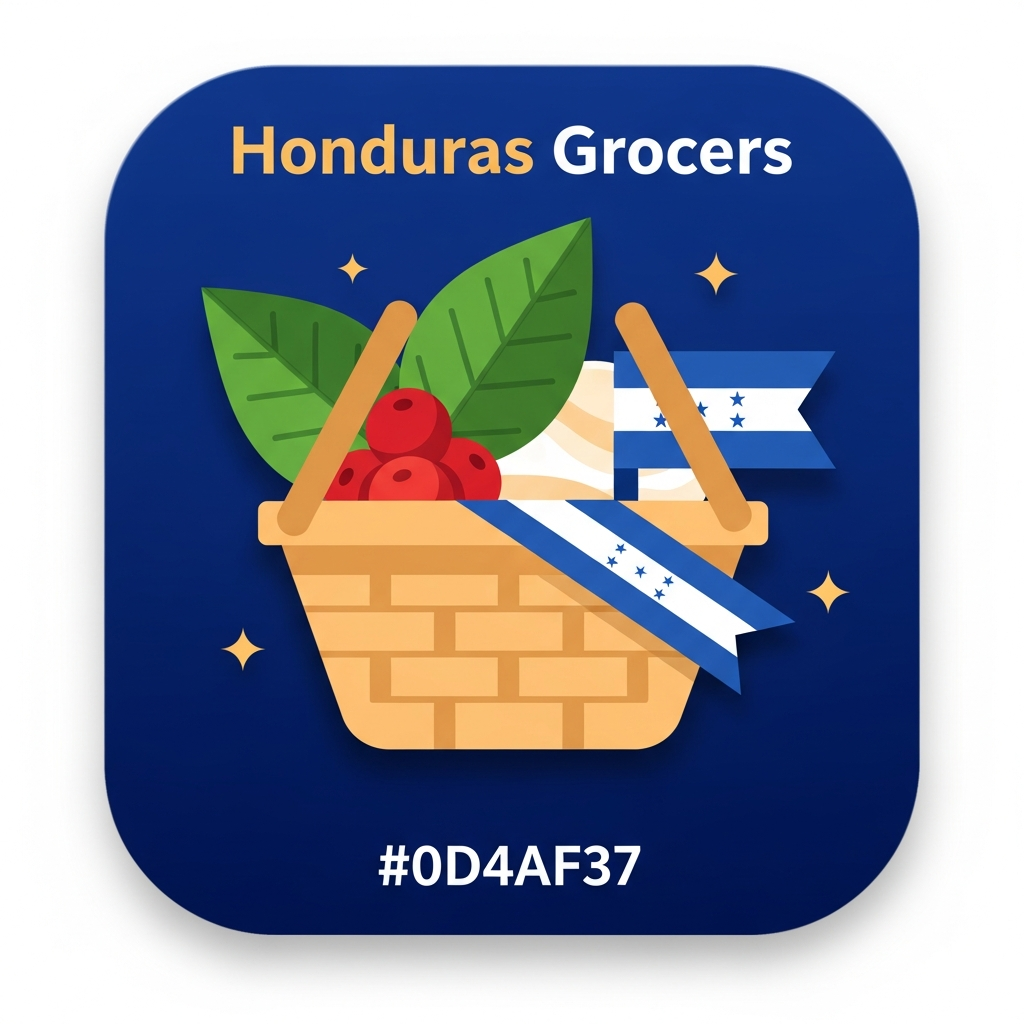
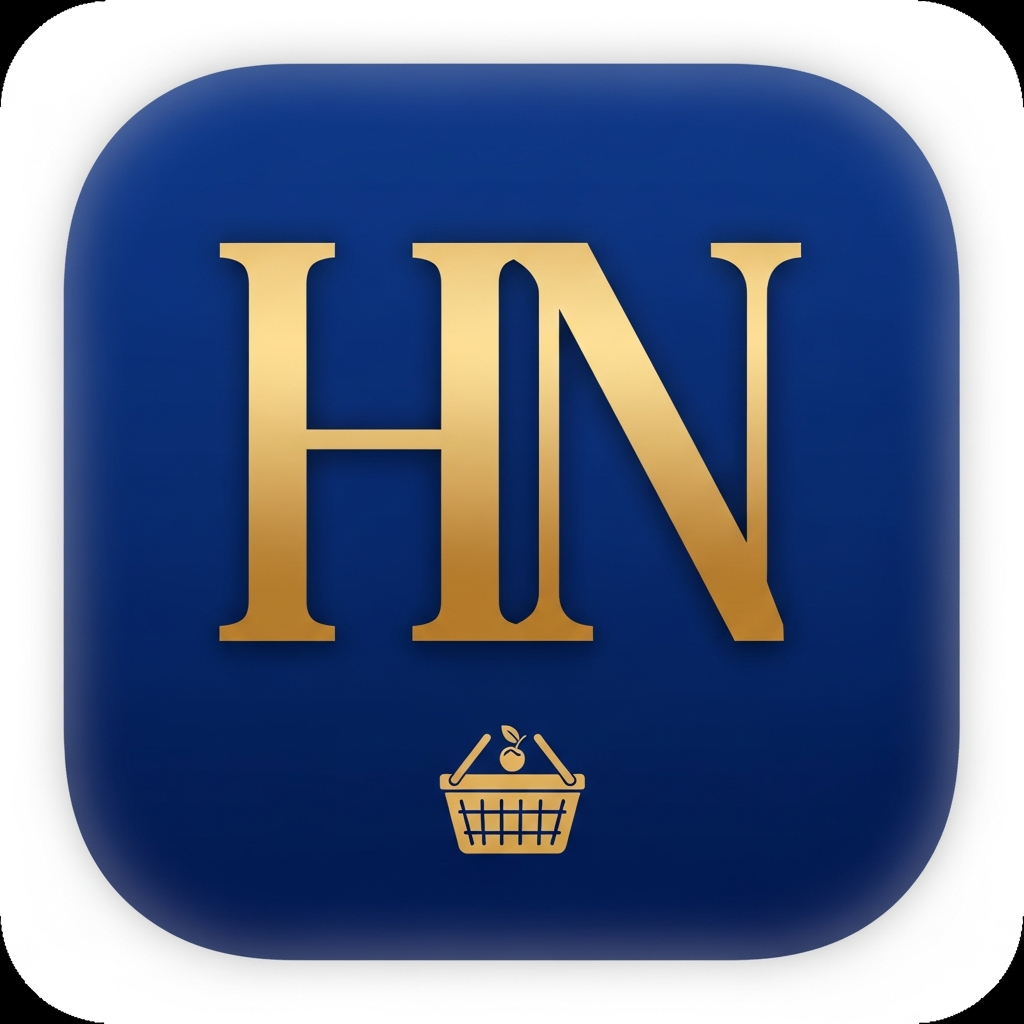
Update branding to "HN Grocers" across the application
Updates the app name, bundle ID, support email, and relevant text in submission copy, privacy policy, and terms of service files to reflect the new "HN Grocers" branding. Also updates generated app icon and feature graphic metadata.

Replit-Commit-Author: Agent
Replit-Commit-Session-Id: b840a65b-4fd7-4e4e-80c6-2eb354647a5a
Replit-Commit-Checkpoint-Type: full_checkpoint
Replit-Commit-Event-Id: f8f539ea-560c-4b84-bac8-9fdf16ebab94
Replit-Commit-Screenshot-Url: https://storage.googleapis.com/screenshot-production-us-central1/4912a823-a7d9-46cd-a7ab-22894e914adc/b840a65b-4fd7-4e4e-80c6-2eb354647a5a/bvsFy5p
Replit-Helium-Checkpoint-Created: true

diff --git a/artifacts/honduran-store/src/pages/terms.tsx b/artifacts/honduran-store/src/pages/terms.tsx
@@ -18,7 +18,7 @@ export default function Terms() {
             <section>
               <h2 className="text-xl font-bold text-primary mt-6 mb-2">1. Acceptance of terms</h2>
               <p>
-                By using the Honduras Grocers website or mobile app, you agree to these terms and
+                By using the HN Grocers website or mobile app, you agree to these terms and
                 conditions. If you do not agree, please do not use our services.
               </p>
             </section>
@@ -66,7 +66,7 @@ export default function Terms() {
             <section>
               <h2 className="text-xl font-bold text-primary mt-6 mb-2">7. Intellectual property</h2>
               <p>
-                All site content (text, images, logos, design) is the property of Honduras Grocers or its
+                All site content (text, images, logos, design) is the property of HN Grocers or its
                 respective owners and is protected by copyright law.
               </p>
             </section>
@@ -74,7 +74,7 @@ export default function Terms() {
             <section>
               <h2 className="text-xl font-bold text-primary mt-6 mb-2">8. Limitation of liability</h2>
               <p>
-                Honduras Grocers shall not be liable for indirect, incidental, or consequential damages
+                HN Grocers shall not be liable for indirect, incidental, or consequential damages
                 arising from the use of our services.
               </p>
             </section>
@@ -91,8 +91,8 @@ export default function Terms() {
               <h2 className="text-xl font-bold text-primary mt-6 mb-2">10. Contact</h2>
               <p>
                 For questions about these terms, email us at{" "}
-                <a href="mailto:support@hondurasgrocers.com" className="text-primary underline">
-                  support@hondurasgrocers.com
+                <a href="mailto:support@hngrocers.com" className="text-primary underline">
+                  support@hngrocers.com
                 </a>
                 .
               </p>

diff --git a/artifacts/honduran-store/src/pages/privacy.tsx b/artifacts/honduran-store/src/pages/privacy.tsx
@@ -18,7 +18,7 @@ export default function Privacy() {
             <section>
               <h2 className="text-xl font-bold text-primary mt-6 mb-2">1. Introduction</h2>
               <p>
-                Honduras Grocers ("we", "us", "the store") respects your privacy. This policy explains
+                HN Grocers ("we", "us", "the store") respects your privacy. This policy explains
                 what information we collect, how we use it, and the rights you have over your data when
                 you use our website and mobile app.
               </p>
@@ -75,8 +75,8 @@ export default function Privacy() {
               </ul>
               <p>
                 To exercise these rights, contact us at{" "}
-                <a href="mailto:support@hondurasgrocers.com" className="text-primary underline">
-                  support@hondurasgrocers.com
+                <a href="mailto:support@hngrocers.com" className="text-primary underline">
+                  support@hngrocers.com
                 </a>
                 .
               </p>
@@ -109,10 +109,10 @@ export default function Privacy() {
             <section>
               <h2 className="text-xl font-bold text-primary mt-6 mb-2">10. Contact</h2>
               <p>
-                Honduras Grocers<br />
+                HN Grocers<br />
                 Email:{" "}
-                <a href="mailto:support@hondurasgrocers.com" className="text-primary underline">
-                  support@hondurasgrocers.com
+                <a href="mailto:support@hngrocers.com" className="text-primary underline">
+                  support@hngrocers.com
                 </a>
               </p>
             </section>

diff --git a/app-store-submission/COPY-ALL-TEXT.md b/app-store-submission/COPY-ALL-TEXT.md
@@ -1,4 +1,4 @@
-# Honduras Grocers — App Store & Play Store Submission Pack
+# HN Grocers — App Store & Play Store Submission Pack
 
 Copy each section into the matching field in App Store Connect or Google Play Console.
 
@@ -7,10 +7,10 @@ Copy each section into the matching field in App Store Connect or Google Play Co
 ## 1. App Name (30 chars max — both stores)
 
 ```
-Honduras Grocers
+HN Grocers
 ```
 
-(16 characters — well under the 30-char limit.)
+(10 characters — well under the 30-char limit. Short, memorable, easy to find by typing.)
 
 ---
 
@@ -41,7 +41,7 @@ Authentic Honduran groceries shipped across the USA. Coffee, baleadas & more.
 ## 4. Full Description (4000 chars max — both stores)
 
 ```
-Honduras Grocers brings authentic Honduran products straight to your door anywhere in the United States. Made for the Honduran community in the US who miss the taste of home, you'll find everything you need to recreate grandma's recipes.
+HN Grocers brings authentic Honduran products straight to your door anywhere in the United States. Made for the Honduran community in the US who miss the taste of home, you'll find everything you need to recreate grandma's recipes.
 
 WHAT WE OFFER
 
@@ -70,7 +70,7 @@ We're catrachos just like you. We know what it means to be far from home and cra
 
 Order your coffee, make weekend baleadas, surprise the family with fresh rosquillas. Honduras is closer than you think.
 
-Download the app and start shopping today. Welcome to Honduras Grocers!
+Download the app and start shopping today. Welcome to HN Grocers!
 ```
 
 ---
@@ -115,13 +115,13 @@ When you fill out the questionnaires, answer "No" to everything (no violence, no
 
 ## 9. Support Information
 
-- **Support email:** support@hondurasgrocers.com (set this up — Gmail or Google Workspace works)
+- **Support email:** support@hngrocers.com (set this up — Gmail or Google Workspace works)
 - **Support URL:** https://sabores-de-honduras-production.up.railway.app/contact
 - **Marketing URL (optional):** https://sabores-de-honduras-production.up.railway.app
 - **Privacy Policy URL:** https://sabores-de-honduras-production.up.railway.app/privacy
 - **Terms of Service URL:** https://sabores-de-honduras-production.up.railway.app/terms
 
-> If you later buy the domain hondurasgrocers.com and point it to Railway, swap these URLs to use that domain — it'll look more professional.
+> If you later buy the domain hngrocers.com and point it to Railway, swap these URLs to use that domain — it'll look more professional.
 
 ---
 
@@ -130,10 +130,10 @@ When you fill out the questionnaires, answer "No" to everything (no violence, no
 In App Store Connect → App Information → "App Review Information", paste:
 
 ```
-Email: reviewer@hondurasgrocers.com
+Email: reviewer@hngrocers.com
 Password: TestReview2026!
 
-Notes: This is an ecommerce app for Honduran food products. To test:
+Notes: This is an ecommerce app for Honduran food products (HN = Honduras). To test:
 1. Browse the home screen and catalog
 2. Tap any product to see details
 3. Add to cart
@@ -154,12 +154,12 @@ Note: the customer-facing storefront content is in Spanish (the app targets the 
 
 Recommended:
 ```
-com.hondurasgrocers.app
+com.hngrocers.app
 ```
 
 Or, if you prefer using your name:
 ```
-com.zainirfan.hondurasgrocers
+com.zainirfan.hngrocers
 ```
 
 ---
@@ -183,7 +183,7 @@ Google asks what data you collect. Use these answers:
 - **App activity:** Yes — App interactions (for analytics)
 - **Device IDs:** No
 - **Data encrypted in transit:** Yes
-- **Users can request deletion:** Yes — they email support@hondurasgrocers.com
+- **Users can request deletion:** Yes — they email support@hngrocers.com
 - **Data shared with third parties:** Clerk (auth), Stripe (payments), Google Maps (address autocomplete), shipping carriers (UPS/FedEx)
 
 ---
@@ -225,4 +225,4 @@ Both stores will ask which languages your app supports. Mark:
 
 ---
 
-That's everything. Copy each block into the matching field. If you change the Railway URL or buy the hondurasgrocers.com domain later, update the Privacy / Terms / Support URLs in both stores too.
+That's everything. Copy each block into the matching field. If you change the Railway URL or buy the hngrocers.com domain later, update the Privacy / Terms / Support URLs in both stores too.
